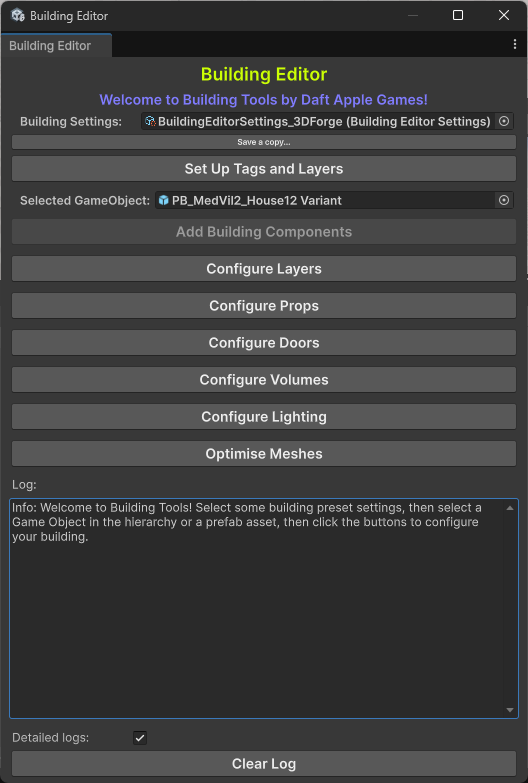
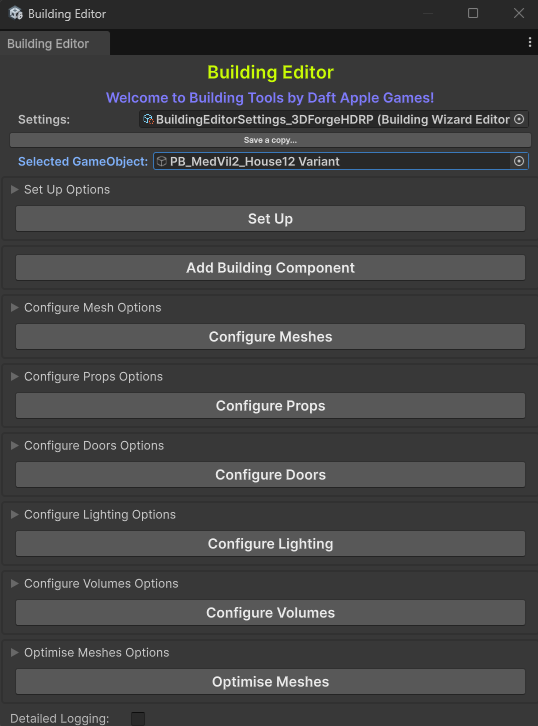
Big update to building-tools docs

diff --git a/buildingtools/installation.md b/buildingtools/installation.md
@@ -1,6 +1,6 @@
 ---
 title: Installation
-nav_order: 2
+nav_order: 3
 parent: Building Tools
 ---
 
@@ -27,7 +27,7 @@ The package has these Unity dependencies, which you'll be prompted to install:
 
 In order to implement some of the functionality, the package requires specific `Layers` and `RenderingLayers` to be present in your project settings.
 
-You can either add these manually, or using the "Set up Tags and Layers" button in the main editor window. Note that this automated processed will look for available slots for tags and layers and won't overwrite what's there. Rendering Layer names are, however, overwritten.
+You can either add these manually, or using the "Set up" button in the main editor window. Note that this automated processed will look for available slots for tags and layers and won't overwrite what's there. Rendering Layer names are, however, overwritten.
 
 To configure these manually, go to Edit > Project Settings > Tags and Layers...
 
@@ -45,7 +45,9 @@ Update the following `Rendering Layers`, setting the name for the given layer in
 
 ## Install Samples
 
-The package comes with a sample folder contain some example assets, such as door sounds and an AudioMixer, and presets for the "3D Forge" building assets. You can install this via the Package Manager by selecting the "Daft Apple Building Tools" package, clicking "Samples" and clicking the "Import" button:
+The package comes with a sample folder contain some example assets, such as door sounds and an AudioMixer, and presets for the "3D Forge" building assets. Due to the way lighting works in Unity, there are sample packages for each of the three render pipelines, and you should import the one relevant to your project. The render pipeline specific packages rely on shared assets from the "Sample Assets" package, so please install this first.
+
+ You can install the samples via the Package Manager by selecting the "Daft Apple Building Tools" package, clicking "Samples" and clicking the "Import" button next to the packages you want to install:
 
 ![](.\media\importsamples.png)
 

diff --git a/buildingtools/uninstalling.md b/buildingtools/uninstalling.md
@@ -1,0 +1,42 @@
+---
+title: Installation
+nav_order: 4
+parent: Building Tools
+---
+
+# Uninstalling
+
+A small number of steps are required to completely uninstall the Building Tools package.
+
+## Remove the packages
+
+You can uninstall the packages by selecting the package in Package Manager, under "In Project", and clicking the "Remove" button. You should remove the Building Tools package first, then the Core package:
+
+![](E:\Dev\DAG\DAG Unity Framework Docs\buildingtools\media\uninstallpackages.png)
+
+## Delete any installed samples
+
+You can very easily remove the samples by simply deleting the folder that is automatically created by the package manager:
+
+![](E:\Dev\DAG\DAG Unity Framework Docs\buildingtools\media\deletesamples.png)
+
+## Restore Layers and Rendering Layers
+
+### Layers
+
+If you clicked the "Set Up" button, a number of Layers are created. You can undo this by going to your "Project Settings > Tags and Layers" and removing / updating the entries:
+
+![](E:\Dev\DAG\DAG Unity Framework Docs\buildingtools\media\createdlayers.png)
+
+### Rendering Layers
+
+Again, only if you clicked "Set Up", two of the Rendering Layers have been renamed. You can undo this via "Project Settings > Tags and Layers":
+
+![](E:\Dev\DAG\DAG Unity Framework Docs\buildingtools\media\renamedrenderlayers.png)
+
+## Script Define Symbols
+
+When first installing the "Daft Apple Core" package, it sets a Script Define Symbol to allow compilation of code specific to your render pipeline. To remove this, go to "Project Settings > Player" and simply delete the script define symbol with the prefix "DAG":
+
+![](E:\Dev\DAG\DAG Unity Framework Docs\buildingtools\media\scriptdefines.png)
+

diff --git a/buildingtools/index.md b/buildingtools/index.md
@@ -9,3 +9,14 @@ parent: Building Tools
 This package provides editor tools and run-time components to allow quick, consistent configuration of building assets in a Unity project. This includes setting up efficient and effective lighting, alignment of props with the terrain, automatically adding working doors, and mesh optimisation. The package comes with pre-sets and examples for configuring the excellent 3D Forge village assets. Third party assets are not required to use this package, however.
 
 ![](.\media\buildingtoolsbanner.png)
+
+> [!IMPORTANT]
+>
+> This package is supported in Unity 6 LTS ONLY! A number of useful changes came into Unity 6 and I've made use of these where possible in this package. I have tested in Unity 6 ONLY and would expect compilation errors and general failures if used with an earlier version of Unity.
+
+This package was designed to be as innocuous as possible:
+
+- All Editor specific script is contained within "Editor Only" assembly definitions. So the package won't add unnecessary code to your game builds.
+- All Run Time components are granular and optional. Nothing is enforced by the package - if you want to remove a particular component, then you can.
+- Code is clean and as error and warning free as possible. I hate it when I install third party packages and am met by hundreds of compiler warnings! I've done my best to ensure this doesn't happen, and that the code is well structured, easy to follow, and easy to extend.
+

diff --git a/buildingtools/editortools/configurelightingtool.md b/buildingtools/editortools/configurelightingtool.md
@@ -1,0 +1,29 @@
+---
+title: Configure Lighting Tool
+nav_order: 6
+parent: Building Editor Tool Window
+---
+
+# Configure Lighting Tool
+
+This tool configures lights within your selecting building Game Object and adds components to give you control over their function.
+
+## Quick Overview
+
+The Configure Lighting tool:
+
+- Adds a "Lighting Controller" to the building, allowing you to control groups of lights within the building structure.
+- Adds a "Building Light" component to each light within the building, giving more granular control over it's function.
+- Configures lights for as one of three types, depending on the name:
+  - Indoor candles
+  - Indoor fires (cookers, fireplaces)
+  - Outdoor lights
+
+- Configures the range, intensity, color depending on the type of light.
+- Removes unsupported "built in" Flare components when using URP or HDRP pipelines.
+- Replaces "built in" Flare components with SRP Flare components, along with a preconfigured sample flare setup.
+- Configures the interior, exterior and prop meshes based on their location, enabling "Probe" lighting support and associating meshes with interior, exterior or both Rendering Layers.
+  - This gives you control over the influence of exterior, interior and directional lights based on where a mesh is located inside or outside your building.
+
+
+## Detailed Usage

diff --git a/buildingtools/editortools/addbuildingcomponent.md b/buildingtools/editortools/addbuildingcomponent.md
@@ -1,0 +1,34 @@
+---
+title: Add Building Tool
+nav_order: 2
+parent: Building Editor Tool Window
+---
+
+# Add Building Tool
+
+This tool gets your selected Game Object ready for use by other tools in the package.
+
+## Quick Overview
+
+The Add Building Component tool:
+
+- Adds a "Building" component to your selected Game Object, if such a component does not already exist.
+
+> [!IMPORTANT]
+>
+> Having run the tool, there is a manual step you must complete before using any of the other tools!
+
+You must configure the component by dragging child Game Objects from your building into the slots to define:
+
+- Groups of meshes representing the "Exterior" of your building.
+- Groups of meshes representing the "Interior" of your building.
+- Groups of meshes representing any "Indoor Props" that existing within your building.
+- Groups of meshes representing any "Outdoor Props" that existing within your building instance or prefab.
+
+> [!IMPORTANT]
+>
+> If your "Props" meshes sit within the "Exterior" or "Interior" of your building, from a hierarchy perspective, then you must move them outside of those game objects.
+
+## Detailed Usage
+
+There's nothing more to this tool. Simply click to add the component and configure using the instructions above.

diff --git a/buildingtools/editortools/setup.md b/buildingtools/editortools/setup.md
@@ -1,0 +1,21 @@
+---
+title: Set Up Tool
+nav_order: 1
+parent: Building Editor Tool Window
+---
+
+# Set Up Tool
+
+This tool simply sets up various required properties in your project, required by some of the other tools.
+
+## Quick Overview
+
+The Set Up tool:
+
+- Adds 4 new "Layers" into your project, which are used to configure discrete "buckets" to manage interior and exterior building meshes, and interior and exterior props.
+- Renames the existing "Rendering Layers", in index locations 1 and 2, used by the "Lighting Tools" to give you more control over how lighting effects various meshes in your building model.
+
+## Detailed Usage
+
+There's nothing more to this tool. Simply click to configure your project. If you want to revert the changes made by this tool, refer to the Uninstallation instructions linked on the left.
+

diff --git a/buildingtools/editortools/optimisemeshestool.md b/buildingtools/editortools/optimisemeshestool.md
@@ -1,0 +1,19 @@
+---
+title: Optimise Meshes Tool
+nav_order: 8
+parent: Building Editor Tool Window
+---
+
+# Optimise Meshes Tool
+
+This tool helps to reduce the number of draw calls and shadow casters on your selected building Game Object. This can greatly improve the performance of your project.
+
+## Quick Overview
+
+The Optimise Meshes Tool:
+
+- Combines meshes from interior, exterior, interior prop and exterior prop layers respectively, generating one mesh for each group.
+- Ignores meshes that have been flagged by the "Ignore Mesh Combine" component, where dynamic behaviour is required. For example, moving doors.
+- Saves the combined meshes as assets and reconfigures the Game Object to use the new meshes.
+
+## Detailed Usage

diff --git a/buildingtools/editortools/configurevolumestool.md b/buildingtools/editortools/configurevolumestool.md
@@ -1,0 +1,18 @@
+---
+title: Configure Volumes Tool
+nav_order: 7
+parent: Building Editor Tool Window
+---
+
+# Configure Volumes Tool
+
+This tool sets up "Volumes", which are areas that encompass your selected building Game Object, allowing you to configure various functions that trigger as a player moves up and out of the building.
+
+## Quick Overview
+
+The Configure Volumes tool:
+
+- Adds an "Interior Volume" (HDRP and URP only) that gives you control over lighting when the player enters the building.
+- Adds an "Interior Audio Filter" component, that allows you to create a "muffled" sound for outdoor/ambient audio when the player enters the building.
+
+## Detailed Usage

diff --git a/buildingtools/buildingeditor.md b/buildingtools/buildingeditor.md
@@ -1,6 +1,6 @@
 ---
-title: The Building Editor Tool
-nav_order: 3
+title: Building Editor Tool Window
+nav_order: 5
 parent: Building Tools
 ---
 
@@ -32,9 +32,8 @@ The window looks like this:
 
 ![](.\media\buildingeditorwindow.png)
 
-### Set Up Tags and Layers
+Each button represents a specific "Tool" in the package. You can find details of each of the tools using the navigation links on the left.
 
-### Add Building Components
-
-### Configure Layers
-
+> [!TIP]
+>
+> All of the tools use the "Undo" feature of the Unity editor. Having run any one of the tools, you can completely undo any changes made via the "Undo History" menu item.

diff --git a/buildingtools/editortools/configuredoors.md b/buildingtools/editortools/configuredoors.md
@@ -1,0 +1,20 @@
+---
+title: Configure Doors Tool
+nav_order: 5
+parent: Building Editor Tool Window
+---
+
+# Configure Doors Tool
+
+This tool helps you to quickly add functioning doors to your building Game Object.
+
+## Quick Overview
+
+The Configure Doors tool:
+
+- Adds a "Door" component to mesh Game Objects found by searching for particular name patterns.
+- Adds "Door Triggers" to the door, allow it to open and close as the player approaches and leaves the area of the door.
+- Adds Audio Clips that play when the door is opening and closing.
+- Ensures the "Static Flags" are set to allow the door to move.
+
+## Detailed Usage

diff --git a/buildingtools/editortools/configureprops.md b/buildingtools/editortools/configureprops.md
@@ -1,0 +1,21 @@
+---
+title: Configure Props Tool
+nav_order: 4
+parent: Building Editor Tool Window
+---
+
+# Configure Props Tool
+
+This tool configures props, like barrells, crates, etc, within your building structures.
+
+## Quick Overview
+
+The Configure Props tool:
+
+- Searches for mesh game objects by name and adds any missing Colliders.
+  - For example:
+    - Crates get a Box Collider
+    - Barrells get a Capsule Collider
+- Where props sit directly on a Terrain in your scene, the props are aligned correctly to the terrain.
+
+## Detailed Usage

diff --git a/buildingtools/editortools/configuremeshes.md b/buildingtools/editortools/configuremeshes.md
@@ -1,0 +1,20 @@
+---
+title: Configure Meshes Tool
+nav_order: 3
+parent: Building Editor Tool Window
+---
+
+# Configure Meshes Tool
+
+This tool configures meshes within your selected building Game Object, giving you control over various aspects of the building.
+
+## Quick Overview
+
+The Configure Meshes tool:
+
+- Sets the "Layer" property depending on where the mesh appears within your building.
+- Sets the "Static Flags" property, optimising performance of rendering of your building and shadows.
+- 
+
+
+## Detailed Usage
